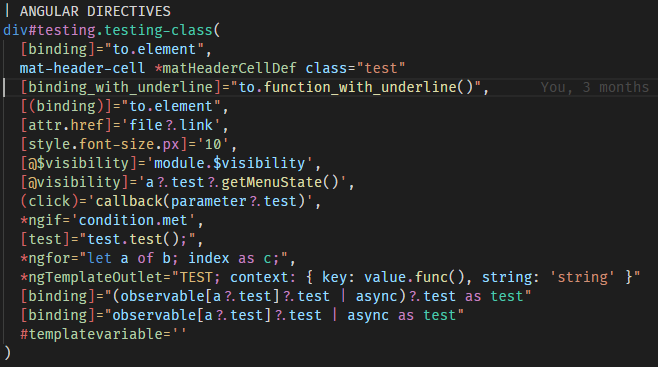
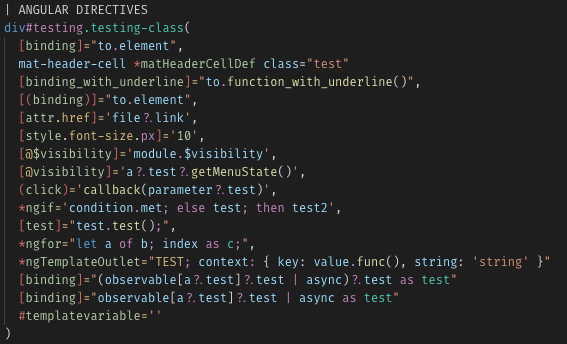
Fixed then and else not being highlighted inside ngIf directives

diff --git a/CHANGELOG.md b/CHANGELOG.md
@@ -1,5 +1,9 @@
 # Change Log
 
+# 0.2.11 (23/08/2019)
+
+- Fixed `then` and `else` not being highlighted inside `*ngIf` directives
+
 # 0.2.10 (15/08/2019)
 
 - Fixed an issue with & in plaintext being showed as invalid
